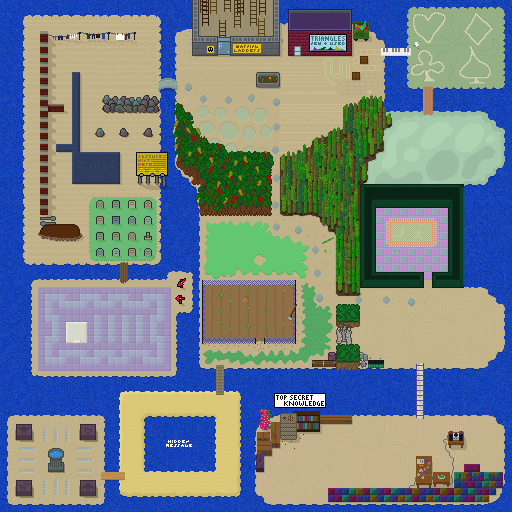
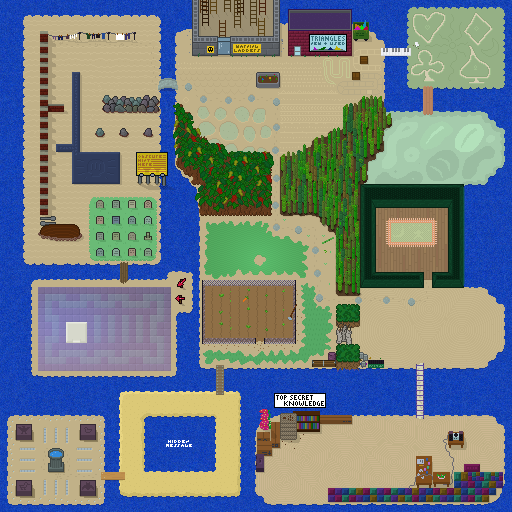
all tiles unique!

Changed region(s): [[0.0625, 0.5625, 0.3438, 0.75], [0.7188, 0.4062, 0.875, 0.5625], [0.375, 0.4375, 0.5938, 0.5625]]

diff --git a/src/editor/Override.js b/src/editor/Override.js
@@ -42,6 +42,7 @@ export class Override {
   /* ImageData in.
    * Throws a sensible exception if anything is wrong (even business level things like a tile mismatch).
    * If we return, report success.
+   * We'll scan for a PhysicsEditor and if present, we'll deliver a highlight image to it.
    */
   validateTilesInner(d) {
     const colc = 64;
@@ -52,6 +53,21 @@ export class Override {
     const imgh = rowc * rowh;
     if ((d.width !== imgw) || (d.height !== imgh) || (d.data.length !== imgw * imgh * 4)) {
       throw new Error(`Invalid image dimensions ${d.width},${d.height}. Expected ${imgw},${imgh}`);
+    }
+    
+    /* If there's a PhysicsEditor, retain it and prepare a highlight image.
+     */
+    let physicsEditor = null;
+    let highlightImage = null;
+    let highlightCtx = null;
+    const peElement = this.dom.document.querySelector(".PhysicsEditor");
+    if (peElement) physicsEditor = peElement.__egg_controller;
+    if (physicsEditor && !(physicsEditor instanceof PhysicsEditor)) peElement = null;
+    if (physicsEditor) {
+      highlightImage = this.dom.spawn(null, "CANVAS", { width: imgw, height: imgh });
+      highlightCtx = highlightImage.getContext("2d");
+    } else {
+      console.log(`Run Validate Tiles with PhysicsEditor open to see the dups.`);
     }
     
     /* Examine each tile LRTB and write its hash into a new array.
@@ -81,12 +97,46 @@ export class Override {
         }
       }
       if (dups.length > 0) {
+        if (highlightCtx) {
+          highlightCtx.fillStyle = this.colorForSequence(errors.length);
+          highlightCtx.fillRect((ai%colc) * colw, Math.floor(ai/colc) * rowh, colw, rowh); // (ai) is not in (dups)
+          for (const ix of dups) {
+            const col = ix % colc;
+            const row = Math.floor(ix / colc);
+            highlightCtx.fillRect(col * colw, row * rowh, colw, rowh);
+          }
+        }
         const msg = `Tile at (${ai%colc},${Math.floor(ai/colc)}) is repeated ${dups.length} times, first at (${dups[0]%colc},${Math.floor(dups[0]/colc)}).`;
         errors.push(msg);
       }
     }
     
-    if (errors.length) throw errors.join("\n");
+    if (errors.length) {
+      if (physicsEditor) physicsEditor.setDupsHighlight(highlightImage);
+      throw errors.join("\n");
+    } else {
+      if (physicsEditor) physicsEditor.setDupsHighlight(null);
+    }
+  }
+  
+  colorForSequence(ix) {
+    switch (ix % 14) {
+      case 0: return "#f00";
+      case 1: return "#0f0";
+      case 2: return "#00f";
+      case 3: return "#ff0";
+      case 4: return "#f0f";
+      case 5: return "#0ff";
+      case 6: return "#fff";
+      case 7: return "#888";
+      case 8: return "#f08";
+      case 9: return "#f80";
+      case 10: return "#8f0";
+      case 11: return "#80f";
+      case 12: return "#08f";
+      case 13: return "#0f8";
+    }
+    return "#888";
   }
   
   hashTile(src, srcp, w, h, stride) {

diff --git a/src/editor/PhysicsEditor.js b/src/editor/PhysicsEditor.js
@@ -22,6 +22,7 @@ export class PhysicsEditor {
     this.penx = -1;
     this.peny = -1;
     this.dirty = false;
+    this.dupsImage = null;
     
     this.data.getImageAsync("world").then(img => {
       this.image = img;
@@ -49,6 +50,15 @@ export class PhysicsEditor {
       throw new Error(`PhysicsEditor expected 512 bytes, found ${this.res.serial.length}`);
     }
     this.buildUi();
+  }
+  
+  /* Called by Override.js:validateTiles(), so we can show visually which tiles are duplicates.
+   * (dups) is null if the image is kosher, or if we don't want to highlight anymore.
+   * If not null, it's a map-sized image transparent where valid, otherwise an opaque primary color, never black.
+   */
+  setDupsHighlight(dups) {
+    this.dupsImage = dups;
+    this.renderSoon();
   }
   
   buildUi() {
@@ -94,9 +104,14 @@ export class PhysicsEditor {
       ctx.drawImage(this.image, srcx, srcy, srcw, srch, 0, 0, this.view.width, this.view.height);
     }
     
-    /* Show the physics.
+    /* Show the physics or duplicates.
      */
-    if (this.res) {
+    if (this.dupsImage) {
+      // Duplicates can't be black. So first blacken the background image, to help the dups stand out.
+      ctx.fillStyle = "#000a";
+      ctx.fillRect(0, 0, this.view.width, this.view.height);
+      ctx.drawImage(this.dupsImage, srcx, srcy, srcw, srch, 0, 0, this.view.width, this.view.height);
+    } else if (this.res) {
       const src = this.res.serial;
       const colw = 8 * this.zoom;
       const rowh = 8 * this.zoom;
